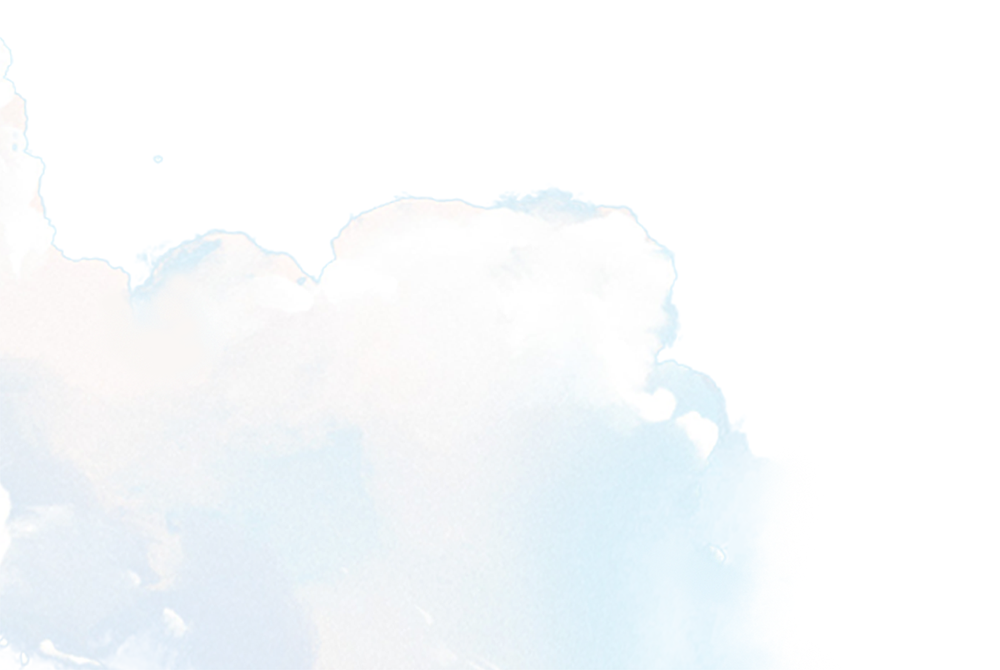
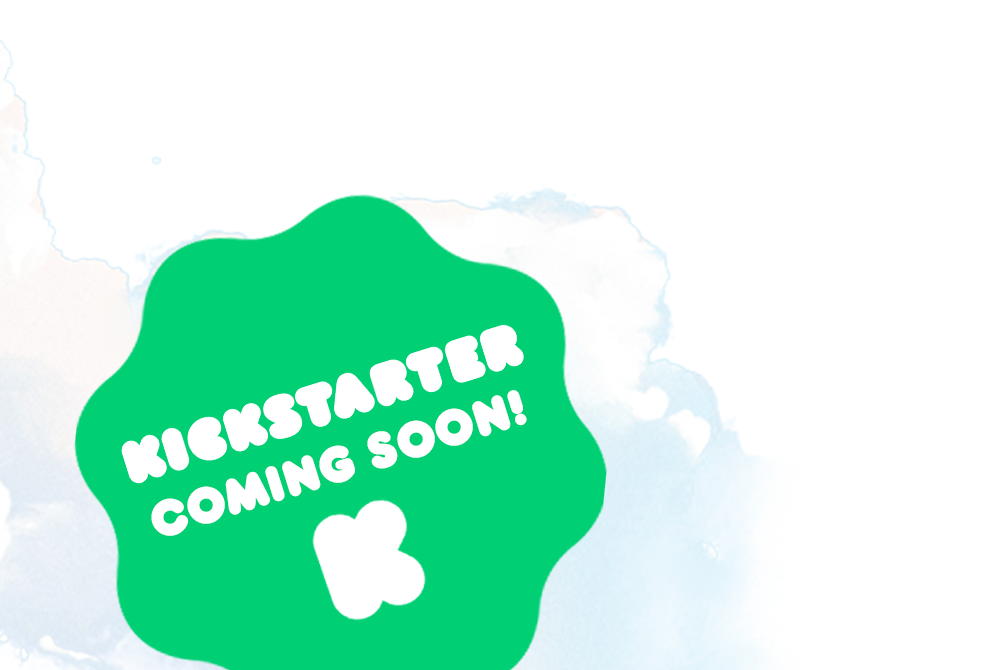
Kickstarter coming soon and mobile adjustments

diff --git a/index.html b/index.html
@@ -270,33 +270,39 @@
             bottom: 50px;   /* distance from bottom */
             right: 150px;    /* distance from right */
             z-index: 5;     /* above image/video */
-        }
-
-        .kickstarter-cloud {
-            position: absolute;
-            bottom: 0;
-            left: 0;
-            height: 500px;
-            width: auto;
-            z-index: 1;
+            animation: fadeIn 1s ease-out forwards;
         }
 
         .game-logo img {
             width: 450px;   /* adjust to your logo */
             height: auto;
         }
+
+        .kickstarter-cloud {
+            position: absolute;
+            bottom: -20px;   /* distance from bottom */
+            left: 0px;    /* distance from right */
+            z-index: 5;     /* above image/video */
+            animation: fadeIn 1s ease-out forwards;
+        }
+        .kickstarter-cloud img {
+            width: 700px;   /* adjust to your logo */
+            height: auto;
+        }
+
+
         @media (max-width: 768px) {
             .game-logo {
-                bottom: 20px;
-                right: 20px;
+                top: 120px;
+                right: 20px; 
             }
-
+            .kickstarter-cloud img{
+                width: 400px;
+            }
             .game-logo img {
                 width: 300px;
+                width: 200px;
             }
-        }
-        .game-logo {
-            animation: fadeIn 1s ease-out forwards;
         }
 
         @keyframes fadeIn {
@@ -314,6 +320,10 @@
         Your browser does not support the video tag.
     </video>
 
+    <div class="kickstarter-cloud">
+        <img src="img/kickstarter-cloud.png" alt="Kickstarter Cloud">
+    </div>
+    
     <div class="game-logo">
         <img src="img/game_logo.png" alt="Game Logo">
     </div>

diff --git a/shared-styles.css b/shared-styles.css
@@ -186,11 +186,6 @@ header a {
     transition: transform 0.2s ease;
 }
 
-.header-actions a:hover img {
-    opacity: 1;
-    transform: scale(1.1);
-}
-
 header a img {
     width: auto;
     height: 20px;
@@ -204,6 +199,11 @@ header a:hover img {
 
 .company-logo {
     height: 35px;
+}
+
+.company-logo a:hover img {
+    opacity: 1;
+    transform: scale(1);
 }
 
 /* Footer */
